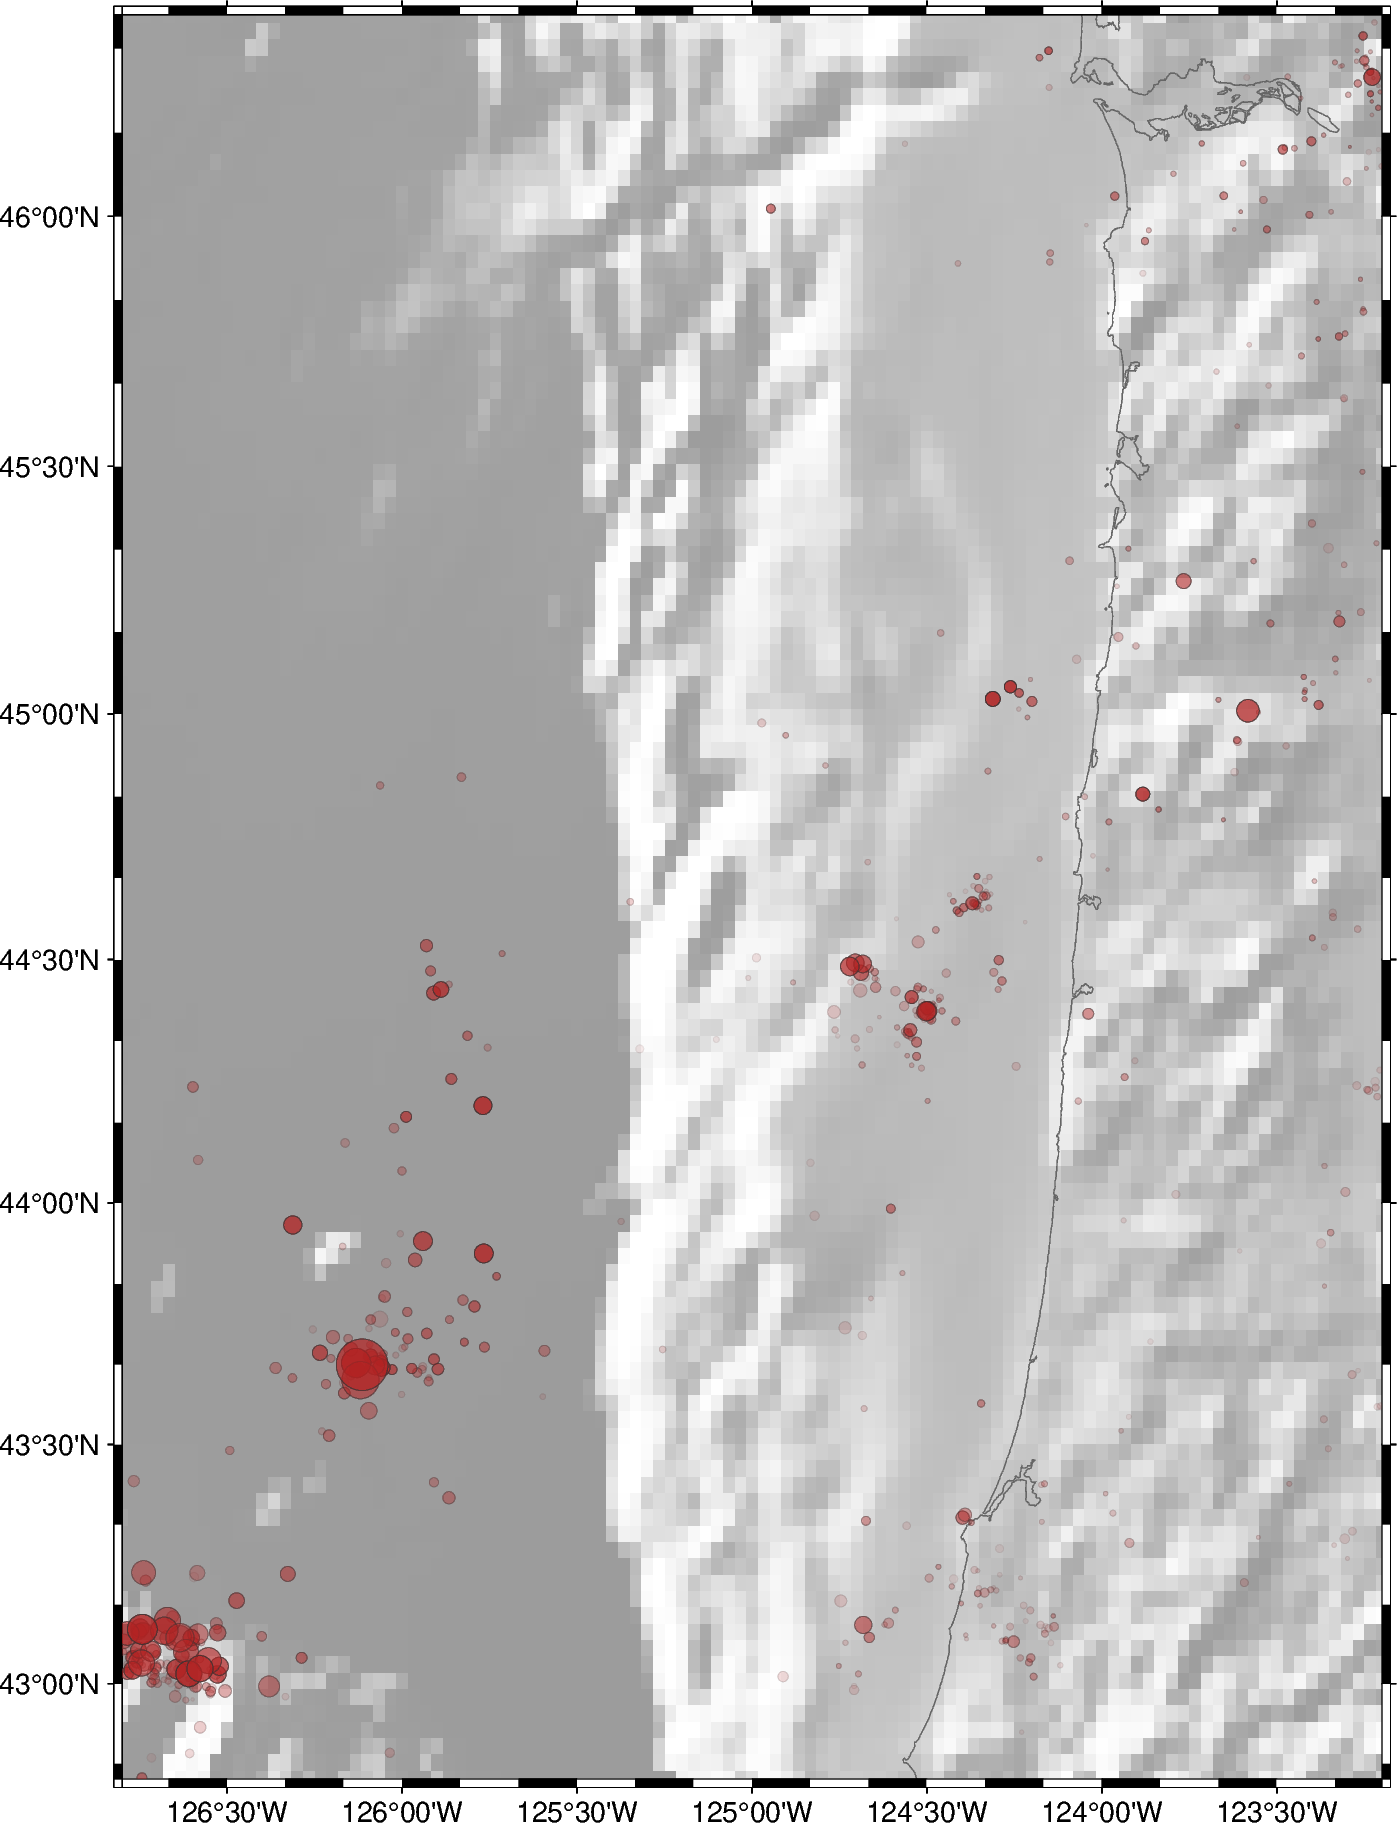
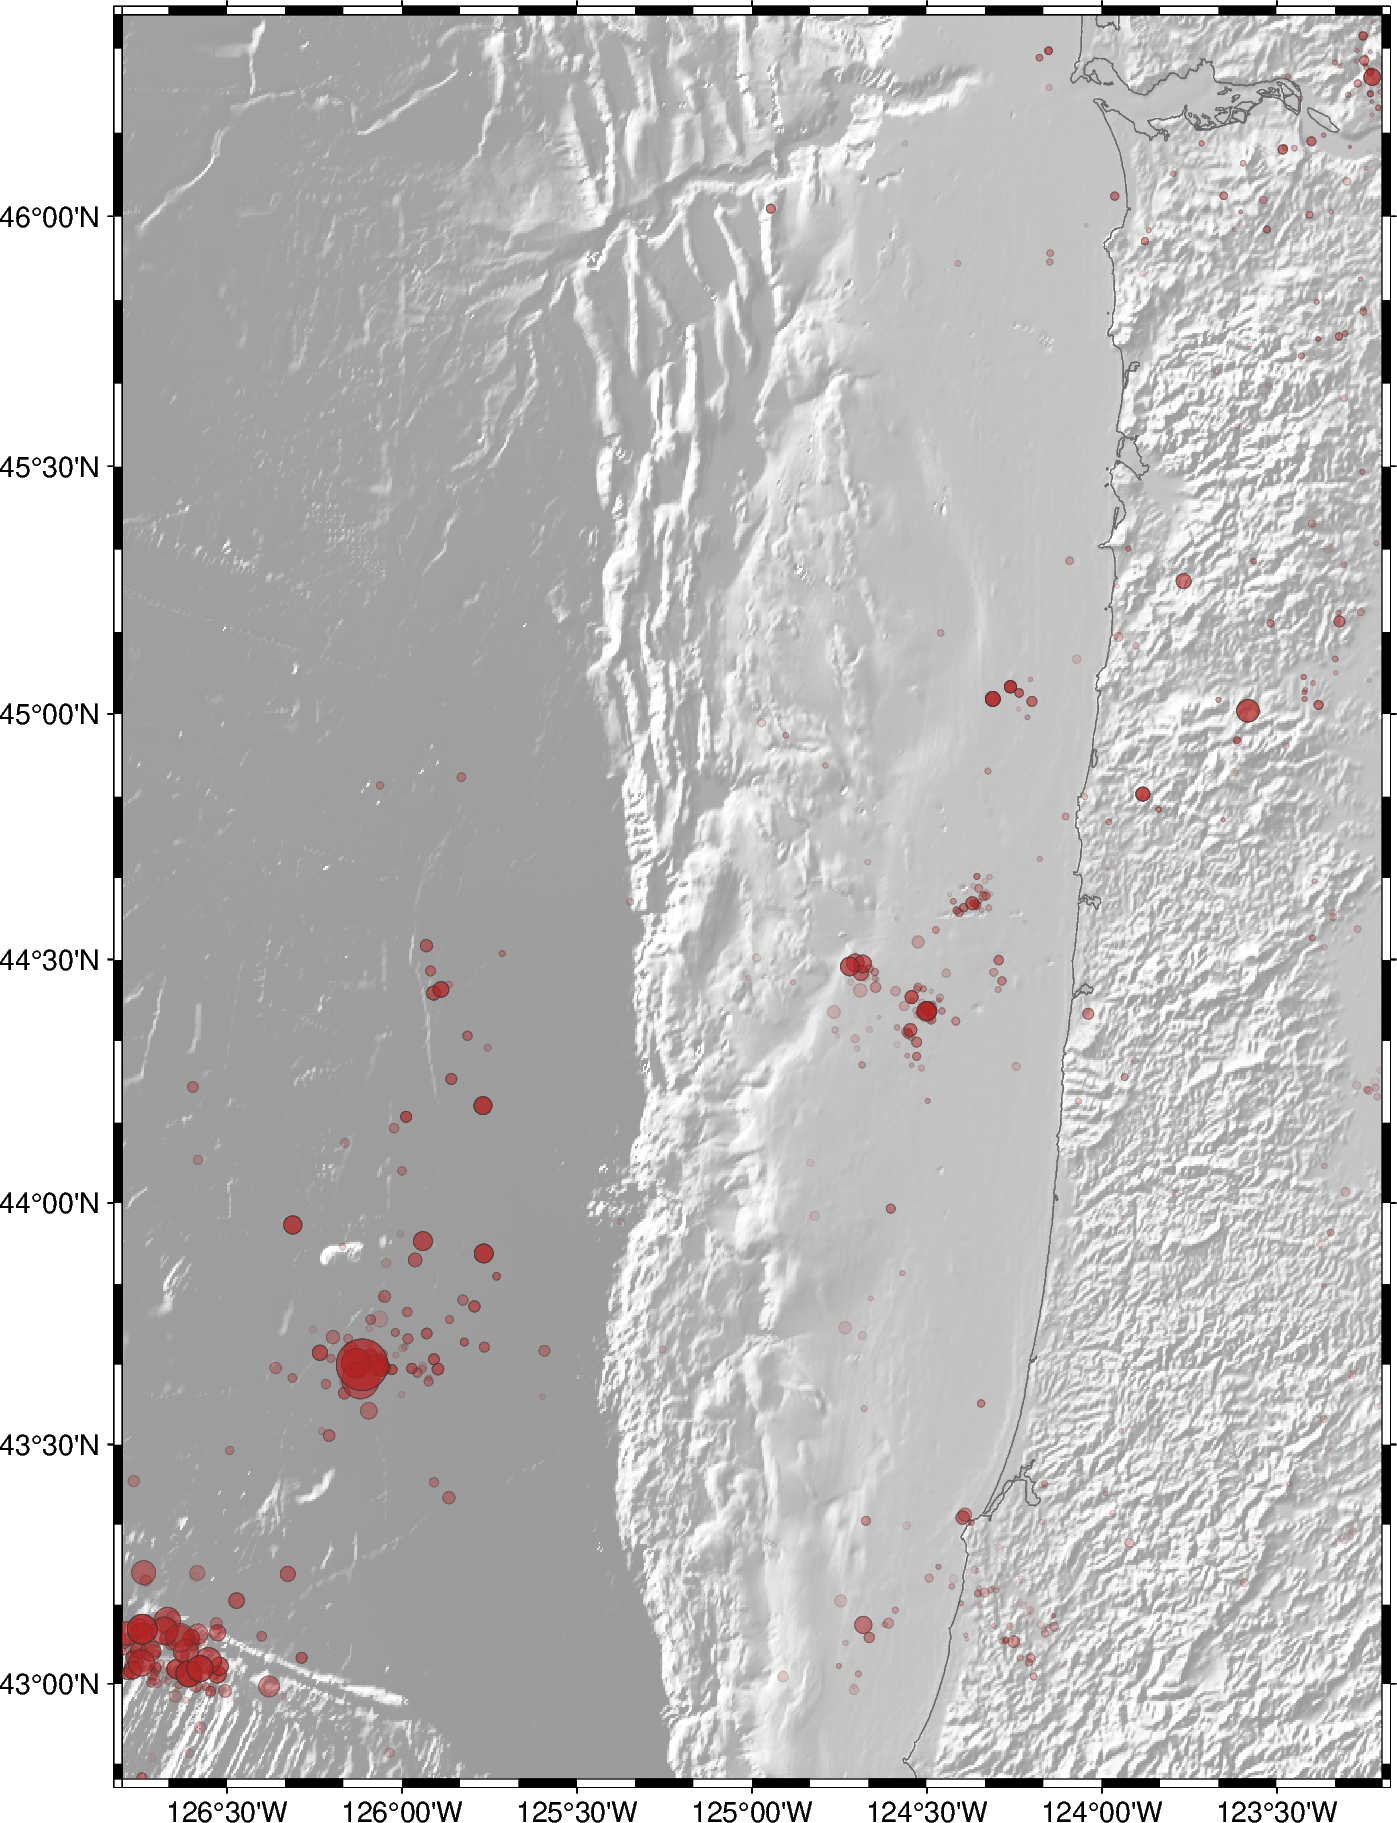
Make tomography model-agnostic (CRESCENT-ready); finer relief near-margin
- phase13_tomography.py: add --model / --vs-var / --out and auto-detect coord/variable
  names, so the analysis runs on any CVM netCDF. To re-check the fluid-megathrust result
  against the new CRESCENT CVM-Gen0 (He et al. 2026; download from cvm.cascadiaquakes.org):
    python phase13_tomography.py --model <CVM-Gen0.nc> --out crescent_relation.png
  The Delph2018 result is unchanged (megathrust? -2.6% dlnVs, KS p~0).
- phase5_pygmt_map.py: use 15s relief for near-margin zooms (west edge >= -127, where the
  SRTM15 tiles load reliably); far-offshore stays 02m. Regenerated mendocino + or_margin
  at 15s.

diff --git a/4_relocation/magnitude/phase13_tomography.py b/4_relocation/magnitude/phase13_tomography.py
@@ -15,6 +15,7 @@ Fetch the model first:  python utils/fetch_tomography.py
 """
 from __future__ import annotations
 
+import argparse
 import os
 
 import matplotlib.pyplot as plt
@@ -31,13 +32,33 @@ CLASS_COLORS = {"volcanic": "#ee7733", "megathrust?": "#cc3311",
                 "crustal-fault": "#888888", "intraslab": "#4477aa"}
 
 
+def coord(d, *names):
+    for n in names:
+        for c in list(d.coords) + list(d.dims):
+            if n in c.lower():
+                return c
+    raise KeyError(names)
+
+
 def main():
-    d = xr.open_dataset(os.path.expanduser(MODEL))
-    vs = d["vs"]                                      # (depth, lat, lon), km/s
-    dep = d["depth"].values
-    lat = d["latitude"].values
-    lon = d["longitude"].values
+    ap = argparse.ArgumentParser(description=__doc__)
+    ap.add_argument("--model", default=MODEL,
+                    help="tomography netCDF (default Delph2018; e.g. CRESCENT CVM-Gen0)")
+    ap.add_argument("--vs-var", default=None, help="Vs variable name (auto-detect if unset)")
+    ap.add_argument("--out", default=OUT)
+    args = ap.parse_args()
+
+    d = xr.open_dataset(os.path.expanduser(args.model))
+    vname = args.vs_var or next((v for v in d.data_vars if "vs" in v.lower()), None)
+    vs = d[vname]                                    # (depth, lat, lon), km/s
+    cdep, clat, clon = coord(d, "depth"), coord(d, "lat"), coord(d, "lon")
+    dep, lat, lon = d[cdep].values, d[clat].values, d[clon].values
+    vs = vs.transpose(cdep, clat, clon)
     V = vs.values
+    if lon.max() > 180:
+        lon = np.where(lon > 180, lon - 360, lon)
+    print(f"model {os.path.basename(args.model)}: Vs '{vname}', "
+          f"depth {dep.min():.0f}..{dep.max():.0f} km, lon {lon.min():.1f}..{lon.max():.1f}")
 
     # perturbation from the depth-mean (lateral anomaly), percent
     depth_mean = np.nanmean(V, axis=(1, 2))
@@ -93,8 +114,8 @@ def main():
     fig.colorbar(im, ax=axc, label="dlnVs (%)")
 
     fig.tight_layout()
-    fig.savefig(os.path.expanduser(OUT), dpi=200, bbox_inches="tight")
-    print(f"\nwrote {OUT}")
+    fig.savefig(os.path.expanduser(args.out), dpi=200, bbox_inches="tight")
+    print(f"\nwrote {args.out}")
 
 
 if __name__ == "__main__":

diff --git a/4_relocation/magnitude/phase5_pygmt_map.py b/4_relocation/magnitude/phase5_pygmt_map.py
@@ -124,8 +124,10 @@ def main(argv=None):
     # finer relief for the regional zooms (15s ~ 450 m), 02m for the full margin;
     # load_relief degrades 15s -> 30s -> 02m rather than falling back to a blank map.
     prefer = args.relief_res
-    if prefer == "auto":                             # 15s only for tight zooms
-        prefer = "15s" if span <= 3 else "02m"
+    if prefer == "auto":
+        # 15s where the tiles load reliably here (near-margin, west edge >= -127);
+        # the far-offshore SRTM15 ocean tiles fail to download, so stay 02m there.
+        prefer = "15s" if (span <= 5 and xmin >= -127) else "02m"
     grid, res = load_relief(region, prefer)
     if grid is not None:
         pygmt.makecpt(cmap="gray", series=[-6000, 4000])
